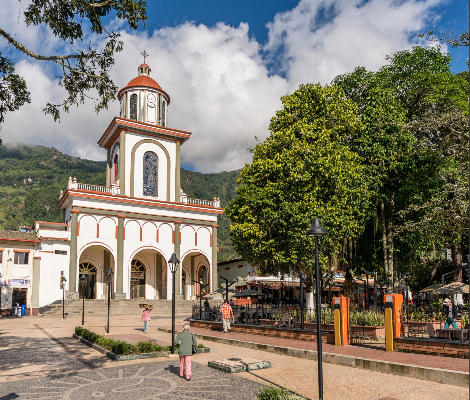
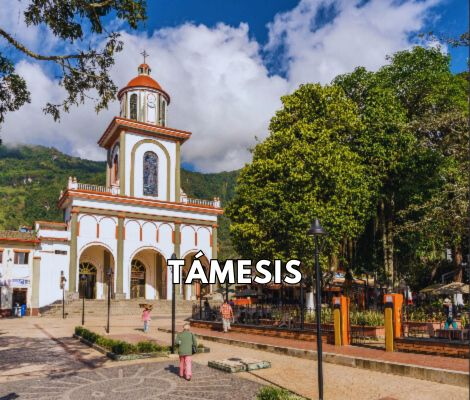
Se actualiza imagenes adonde ir y se agre formato arboletes y css

diff --git a/css/estilos.css b/css/estilos.css
@@ -57,6 +57,7 @@ nav {
 
 /* Cambiar el color del enlace al pasar el ratón por encima */
 .menu a:hover {
+
     color: #FFD700;
 }
 
@@ -454,17 +455,22 @@ footer {
 .seleccionB{
     display: flex;
     justify-content: space-evenly;
-    align-items: center;
-    padding: 50px;
-    margin-top: 40px;
+    padding: 10px;
+    margin-top: 10px;
+    flex-wrap: wrap;
 }
 .seleccionB input{
-    padding: 15px 80px;
-    font-size: 18px;
-    color: #445940;
+    padding: 5px 132px;
+    font-size: 15px;
     border: 1px solid #445940;
-    border-radius: 1400px;
-    margin-left: 30px;
+    border-radius: 1083px;
+}
+.seleccionB input:hover {
+    opacity: 0.8;
+    background-color: #445940;
+    color: #fff;
+    font-family: 'Magra', sans-serif;
+    font-size: 20px;
 }
 .vertodosm{ 
     display: flex;
@@ -515,36 +521,51 @@ footer {
     margin:20px 20px;
     margin-top: 20px;
 }
-.vtm_p{
-    font-size: 40px;
-    color: white;
-    /* float: none; */
-    margin-top: 298px;
-    font-family: 'Magra', sans-serif;
-    margin-left: 3px;
-    text-align: center;
-    
-}
 .vd{
-    padding: 8px;
-    padding-left: 10px;
-    font-size: 20px;
+    bottom: 0;
+    right: 0;
+    padding: 7px;
+    background-color: white;
     color: #445940;
-    border: 1px solid white;
-    border-radius: 40px;
+    font-size: 16px;
+    text-decoration: none;
     font-family: 'Magra', sans-serif;
-    background-color: #ffffffad;
-    float: left;
-    margin-left: 175px;
-    text-align: center;
     cursor: pointer;
+    border: 1px solid #445940;
+    border-radius: 10px;
+    margin-left: 192px;
+    margin-top: 325px;
+}
+.Visitanos1 button:hover {
+    cursor: pointer;
+    opacity: 0.8;
+}
+.Visitanos2 button:hover {
+    cursor: pointer;
+    opacity: 0.8;
+}
+.Visitanos3 button:hover {
+    cursor: pointer;
+    opacity: 0.8;
+}
+.Visitanos4 button:hover {
+    cursor: pointer;
+    opacity: 0.8;
+}
+.Visitanos5 button:hover {
+    cursor: pointer;
+    opacity: 0.8;
+}
+.Visitanos6 button:hover {
+    cursor: pointer;
+    opacity: 0.8;
 }
 /* AQUI TERMINA DE ADONDE IR*/
 
 /* AQUI INICIA ADONDE IR ARBOLETES*/
 
 .Air img{
-    height: 700px;
+    height: 500px;
     width: 100%;
     
 }
@@ -633,13 +654,22 @@ footer {
 
 .direccion{
     display: flex;
-    padding: 11px;
+    padding: 20px;
     flex-direction: row;
     justify-content: center;
     flex-wrap: wrap;
+    margin: 0 45px 16px 5px;
+}
+.direccion button:hover {
+    cursor: pointer;
+    opacity: 0.8;
+    background-color: #445940;
+    color: #fff;
+    font-family: 'Magra', sans-serif;
+    font-size: 20px;
 }
 .direccionG{
-    padding: 1px 136px;
+    padding: 9px 164px;
     /* font-size: 18px; */
     color: #445940fa;
     border: 1px solid #4459408f;
@@ -647,12 +677,48 @@ footer {
     margin-left: 30px;
 }
 .direccionW{
-    padding: 1px 165px;
+    padding: 9px 195px;
     /* font-size: 18px; */
     color: #445940fa;
     border: 1px solid #4459408f;
     border-radius: 20px;
     margin-left: 30px;
+}
+.formulario{
+    text-align: justify;
+    padding: 5px;
+    margin: 0 400px;
+    font-family: 'Magra', sans-serif;
+    font-size: 20px;
+}
+.formulario h2{
+    font-size: 40px;
+    font-family: 'Magra', sans-serif;
+    color: #445940;
+}
+.formularioB {
+    padding: 1px 165px;
+    /* font-size: 18px; */
+    color: #445940fa;
+    border: 1px solid #4459408f;
+    border-radius: 20px;
+}
+.formulario textarea{
+    border: 1px solid #4459408f;
+    border-radius: 20px;
+    font-family: 'Magra', sans-serif;
+}
+.formulario button{
+    border: 1px solid #4459408f;
+    border-radius: 30px;
+    font-family: 'Magra', sans-serif;
+    background-color: #445940;
+    color: #fff;
+    padding: 10px;
+}
+.formulario button:hover {
+    cursor: pointer;
+    opacity: 0.8;
 }
 
  /* AQUI TERMINA ADONDE IR ARBOLETES*/

diff --git a/Arboletes.html b/Arboletes.html
@@ -53,7 +53,7 @@
     <!-- Contenido de la página va aquí -->
     <main>
         <div class="Air">
-            <img src="img/Imagenes ArS/Air.Arboletes.png" alt="Arboletes">
+            <img src="img/Airr.jpg" alt="Arboletes">
         </div>
         <div class="elementor">
         <section >
@@ -167,6 +167,21 @@
             <a href="https://www.google.com/maps/dir/La+Alpujarra,+La+Candelaria,+Medell%C3%ADn,+Antioquia/Arboletes,+Antioquia/@7.5649409,-77.1342499,8z/data=!3m1!4b1!4m13!4m12!1m5!1m1!1s0x8e4429ab8698fe8b:0xb2cad0ccbcf2c218!2m2!1d-75.5778849!2d6.2441899!1m5!1m1!1s0x8e5a07335cba6f75:0xfc9002d663edc524!2m2!1d-76.427089!2d8.850104?entry=ttu" target="_blank"><button class="direccionG">Google Maps</button></a>
             <a href="https://www.waze.com/es/live-map/directions/arboletes-antioquia-co?to=place.ChIJdW-6XDMHWo4RJMXtY9YCkPw&from=place.ChIJi_6YhqspRI4RGMLyvMzQyrI" target="_blank"><button class="direccionW">Waze</button></a>
         </div>
+
+        <div class="formulario">
+            <h2>Deja una respuesta</h2>
+            <p>Tu dirección de correo electrónico no será publicada. Los campos obligatorios están marcados con <b>*</b></p><br>
+
+            <label for="textarea"><strong>Comentario *:</strong></label><br>
+            <textarea placeholder="Ingrese comentario"style="width: 50%"></textarea><br><br>
+            <label for="nombre"><strong> Digite su nombre completo *:</strong></label> <br>
+            <input class="formularioB" type="text" name="nombre" id="nombre"><br><br>
+            <label for="email"><strong>Digite su correo electronico *:</strong></label><br>
+            <input class="formularioB" type="email" name="email" id="email"> <br><br>
+            <input type="checkbox" value="" id="flexCheckIndeterminate">
+            <label for="comment"><strong> Guarda mi nombre, correo electrónico y web en este navegador para la próxima vez que comente.</strong></label><br><br>
+            <button>Publicar el Comentario</button><br><br>
+        </div> 
     </main>
 
 

diff --git a/Adondeir.html b/Adondeir.html
@@ -64,27 +64,21 @@
         </div>
         <div class="vertodosm">  
             <div class="Visitanos1">
-                <p class="vtm_p">Arboletes</p>
                 <a href="Arboletes.html"><button class="vd">Ver destino</button></a>
             </div>
             <div class="Visitanos2">
-                <p class="vtm_p">Medellín</p>
                 <button class="vd">Ver destino</button>
             </div>
             <div class="Visitanos3">
-                <p class="vtm_p">Guatape</p>
                 <button class="vd">Ver destino</button>
             </div>
             <div class="Visitanos4">
-                <p class="vtm_p">Santa Fe de Antioquia</p>
                 <button class="vd">Ver destino</button>
             </div>
             <div class="Visitanos5">
-                <p class="vtm_p">San Rafael</p>
                 <button class="vd">Ver destino</button>
             </div>
             <div class="Visitanos6">
-                <p class="vtm_p">Támesis</p>
                 <button class="vd">Ver destino</button>
             </div>
     </main>
